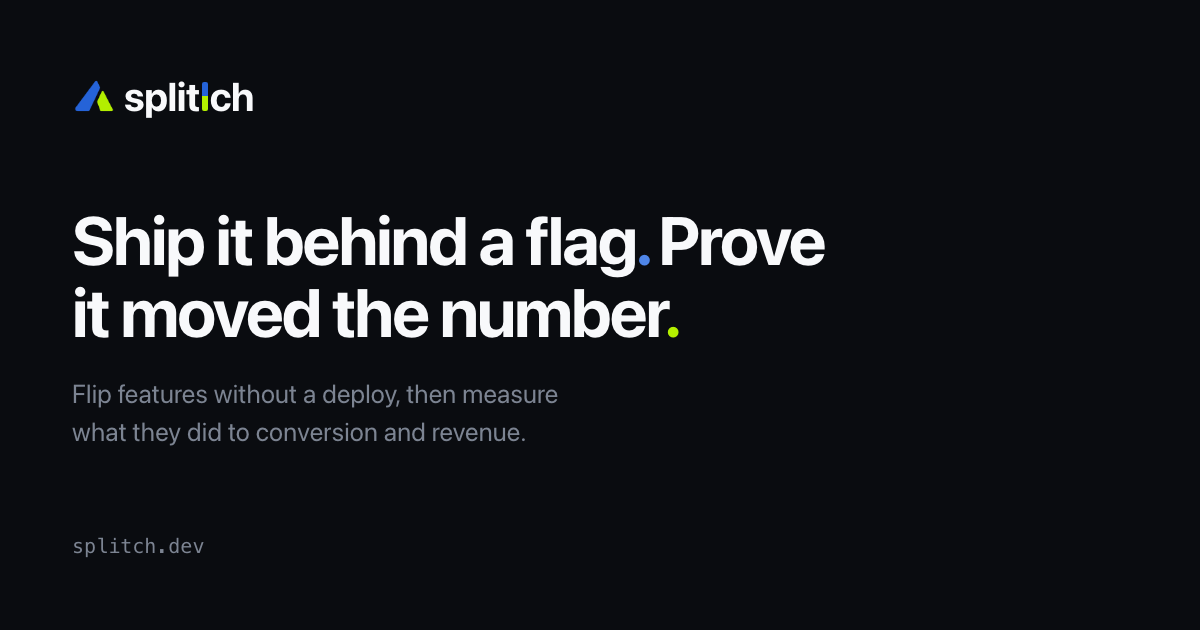
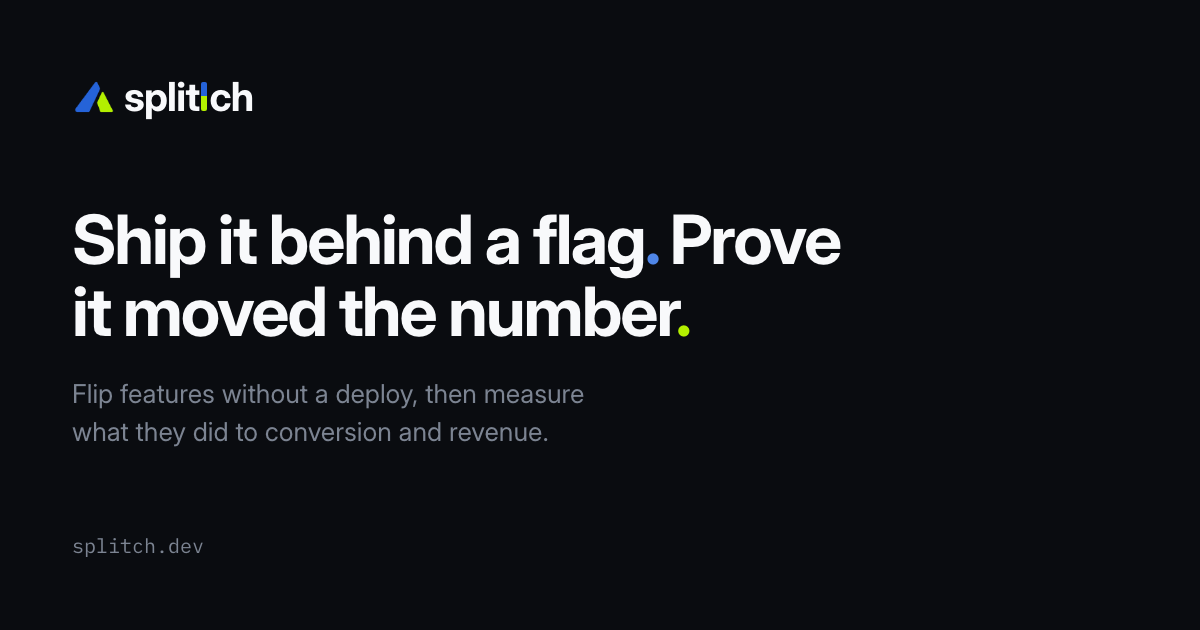
fix(brand): render the social card in the site's own typeface
The card is a standalone HTML file, so it inherited none of the webfonts
packages/ui/src/theme.css imports. It declared the brand stack and then typeset
in whatever system-ui resolved to on the rendering machine: SF Pro here, DejaVu
Sans on a Linux CI box, neither of them the site's Inter Variable. Nothing
failed, the card just came out in the wrong face. Re-rendering with the fonts
actually loaded moves 16.5% of the image.

The renderer now resolves the Fontsource stylesheets through packages/ui,
rewrites their relative file URLs to absolute, and refuses to screenshot unless
every family the card sets type in reports loaded. Dropping the Inter stylesheet
now fails with the family named, where before it silently shipped.

Also from review: each app gets its own manifest short_name, since launchers
label the home-screen icon with it and both apps ship the same glyph; the
maskable comment stated the safe zone as 40% diameter when the spec guarantees
80%; the image guard checked only the first img; and the branding doc listed
three of the eight generated outputs.

Issue: SPL-611

diff --git a/docs/branding/ui-usage.md b/docs/branding/ui-usage.md
@@ -77,8 +77,20 @@ the panel sidebar all render the same component and scale it with `text-*`.
 
 The glyph is raster, not a component: `assets/brand/splitch-mark.png` is the
 master, and `pnpm brand:assets` derives every served size from it into each
-app's `public/` (`favicon.ico`, `apple-touch-icon.png`, `brand/splitch-mark.png`).
-Edit the master and re-run, never the outputs. Those exact paths are the only
+app's `public/`:
+
+| Output                   | Purpose                                                                       |
+| ------------------------ | ----------------------------------------------------------------------------- |
+| `favicon.ico`            | 16 and 32 frames, for the paths browsers probe blind                          |
+| `apple-touch-icon.png`   | iOS home screen; inset on white, since iOS drops alpha                        |
+| `brand/splitch-mark.png` | the glyph `BrandMark` renders                                                 |
+| `icon-192.png`           | manifest icon, `purpose: "any"`                                               |
+| `icon-512.png`           | manifest icon, `purpose: "any"`                                               |
+| `icon-maskable-512.png`  | manifest icon, `purpose: "maskable"`; see the safe-zone note in the generator |
+| `site.webmanifest`       | name, colours, and the icon set                                               |
+| `og-card.png`            | marketing only; rendered from `assets/brand/og-card.html`                     |
+
+Edit a source and re-run, never the outputs. Those exact paths are the only
 rasters `scripts/check-binary-assets.mjs` lets into the repo, so a new size
 needs a line there too.
 
